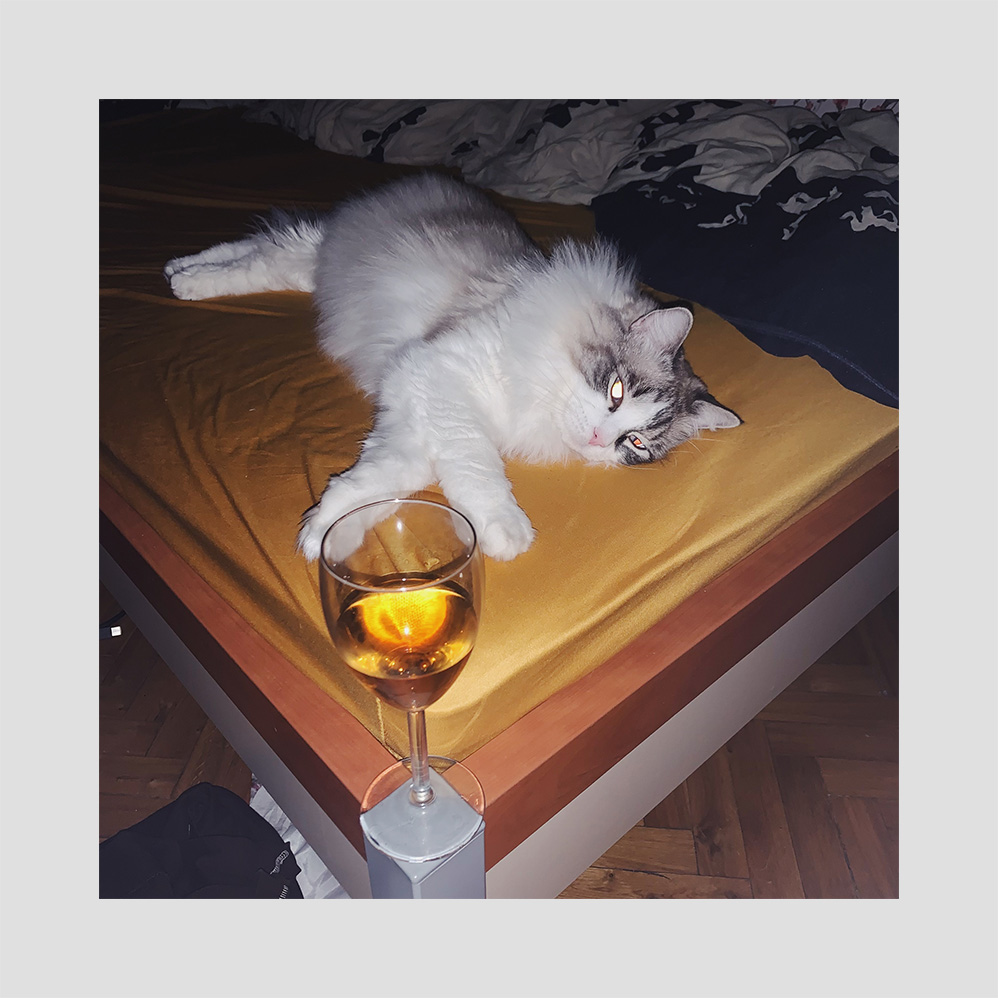
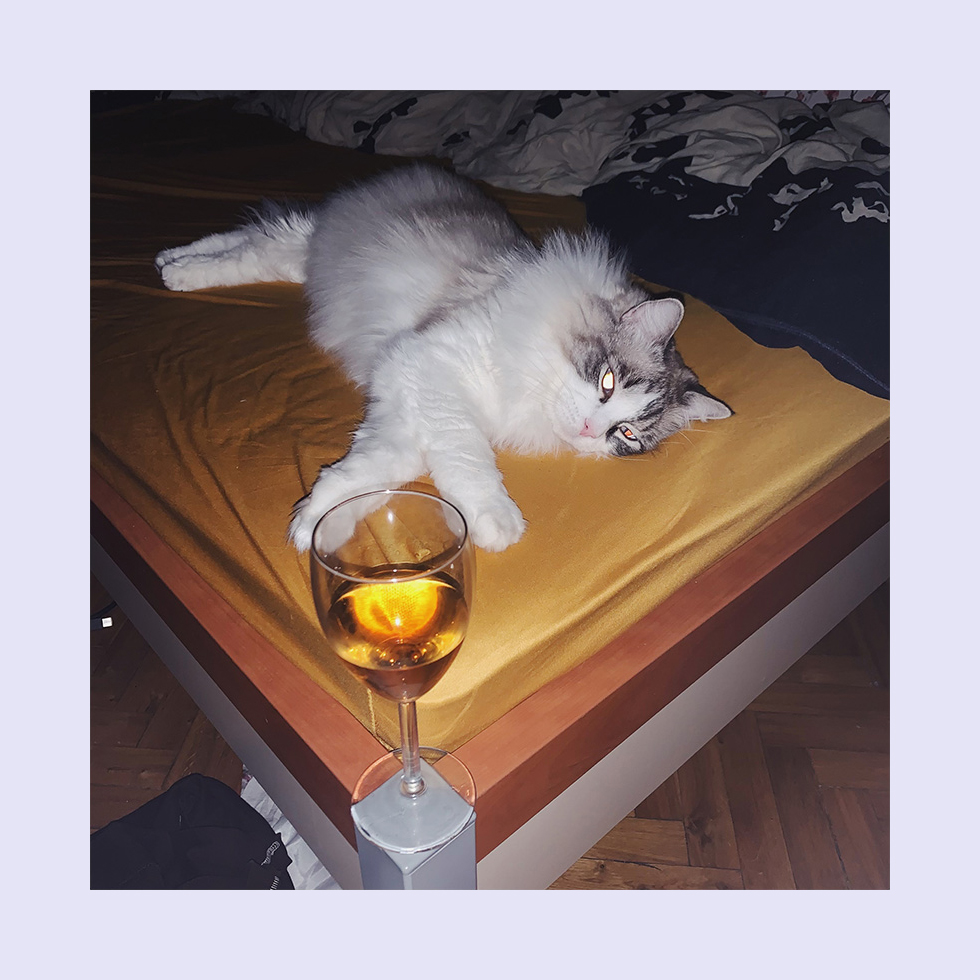
silverr overhaul and news entry about it

diff --git a/css/timeline.css b/css/timeline.css
@@ -2,117 +2,105 @@ body {
     background-color: black;
 }
 
-#main-wrapper {
+#container {
+    max-width: 100%;
+}
+
+#wrap {
     width: 100%;
     height: 100%;
-    
     display: flex;
-    flex-direction: column;
-    justify-content: center;
-    align-items: center;
-    align-content: center;
-    gap: 60px;
-}
-
-#bounding-box {
-    display: flex;
-    flex-direction: row;
     justify-content: center;
     align-items: flex-start;
-    align-content: center;
+    align-content: flex-start;
 }
 
-#bottom-binding {
-    display: flex;
-    flex-direction: row;
-    flex-wrap: wrap;
-    justify-content: center;
-    align-items: flex-start;
-    align-content: center;
-    max-width: 470px;
-    border: 1px solid white;
-    gap: 10px;
-    padding: 10px;
-    
-    position: relative;
+#grid {
+    max-width: 100%;
+    width: 600px;
+    display: grid;
+    grid-template-columns: repeat(5, 1fr);
 }
 
-.title {
-    color: white;
-    position: absolute;
-    top: -25px;
-    white-space: nowrap;
-}
-
-.vertical-wrapper {
-    display: flex;
-    flex-direction: column;
-    justify-content: center;
-    align-items: center;
-    align-content: center;
-}
-
-.connector {
-    width: 120px;
-    min-height: 120px;
-
-    display: flex;
-    flex-direction: column;
-    justify-content: center;
-    align-items: center;
-    align-content: center;
-}
-
-.line {
-    background-color: white;
-    height: 1px;
-    width: 120px;
-}
-
-.connector.vertical {
-    transform: rotate(90deg);
-}
-
-.divider {
-    height: 120px;
-    width: 120px;
-}
-
-.top-1 {
-    margin-top: 110px;
-}
-
-.top-2 {
-    margin-top: 220px;
+#sample-node {
+    grid-column-start: 1;
+    grid-column-end: 1;
+    grid-row-start: 1;
+    grid-row-end: 1;
 }
 
 .node {
-    width: 120px;
-    min-height: 120px;
     border: 1px solid white;
-
-    position: relative;
-
+    padding: 10px;
     display: flex;
-    flex-direction: column;
+    gap: 20px;
+}
+
+.node>img {
+    max-width: 100%;
+}
+
+.line {
+    display: flex;
     justify-content: center;
     align-items: center;
     align-content: center;
 }
 
-.node>img:last-child {
-    margin-bottom: 10px;
+.vertical {
+    transform: rotate(90deg);
 }
 
-.node>img {
-    width: 100px;
-    height: 100px;
-    margin-top: 10px;
-    filter: grayscale(1);
-    transition: 0.3s;
+.stroke {
+    background-color: white;
+    height: 1px;
+    width: 100%;
 }
 
-.node>img:hover {
-    filter: grayscale(0);
-    transition: 0.3s;
+.node-1 {
+    grid-column-start: 3;
+    grid-column-end: 4;
+    grid-row-start: 1;
+    grid-row-end: 4;
+
+    flex-direction: column;
+}
+
+.node-2 {
+    grid-column-start: 1;
+    grid-column-end: 2;
+    grid-row-start: 2;
+    grid-row-end: 3;
+}
+
+.line-1 {
+    grid-column-start: 2;
+    grid-column-end: 3;
+    grid-row-start: 2;
+    grid-row-end: 3;
+}
+
+.line-2 {
+    grid-column-start: 4;
+    grid-column-end: 5;
+    grid-row-start: 3;
+    grid-row-end: 4;
+}
+
+.node-3 {
+    grid-column-start: 5;
+    grid-column-end: 6;
+    grid-row-start: 3;
+    grid-row-end: 5;
+
+    flex-direction: column;
+}
+
+.node-4 {
+    grid-column-start: 2;
+    grid-column-end: 5;
+    grid-row-start: 6;
+    grid-row-end: 7;
+    
+    flex-direction: row;
 }

diff --git a/timeline.html b/timeline.html
@@ -21,46 +21,31 @@
 </head>
 
 <body>
-        <div id="main-wrapper">
-            <div id="wrap">
-            <div id="outer">
-            <div id="bounding-box">
-
-                <div class="vertical-wrapper">
-                    <div class="node top-1">
-                        <div class="title">stonewall incident</div>
-                        <img src="res/timeline/endless.jpg">
-                    </div>
-                </div>
-
-                <div class="connector top-1"><div class="line"></div></div>
-
-                <div class="vertical-wrapper">
-                    <div class="node">
-                        <div class="title">the last summer</div>
-                        <img src="res/timeline/missing.jpg"><img src="res/timeline/fangs.jpg"><img src="res/timeline/missing.jpg">
-                    </div>
-                </div>
-
-                <div class="connector top-2"><div class="line"></div></div>
-
-                <div class="vertical-wrapper">
-                    <div class="node top-2">
-                        <div class="title">meadow</div>
-                        <img src="res/timeline/missing.jpg"><img src="res/timeline/meadow+.jpg">
-                    </div>
-                </div>
-
+    <div id="wrap">
+        <div id="grid">
+            <div id="sample-node"></div>
+            <div class="node node-1">
+                <img src="res/timeline/missing.jpg">
+                <img src="res/timeline/missing.jpg">
+                <img src="res/timeline/missing.jpg">
             </div>
-
-            <div id="bottom-binding">
-                <div class="title">projects not applicable / outisde of the timeline</div>
-                <img src="res/timeline/missing.jpg"><img src="res/timeline/missing.jpg"><img src="res/timeline/missing.jpg"><img src="res/timeline/missing.jpg">
+            <div class="line line-1 horizontal"><div class="stroke"></div></div>
+            <div class="node node-2">
+                <img src="res/timeline/missing.jpg">
+            </div>
+            <div class="line line-2 horizontal"><div class="stroke"></div></div>
+            <div class="node node-3">
+                <img src="res/timeline/missing.jpg">
+                <img src="res/timeline/missing.jpg">
+            </div>
+            <div class="node node-4">
+                <img src="res/timeline/missing.jpg">
+                <img src="res/timeline/missing.jpg">
+                <img src="res/timeline/missing.jpg">
             </div>
         </div>
-            </div>
+    </div>
 
-        </div>
     <script src="js/index.js"></script>
     <script src="js/timeline.js"></script>
 </body>

diff --git a/silverr.html b/silverr.html
@@ -24,9 +24,9 @@
         <h1>silverr</h1>
         <span>TERRA</span>
         <span>578 days / 13 872 hours / 832 320 minutes</span>
-        <iframe src="https://www.youtube.com/embed/l_5du1P4g9Q?color=white" width="560" height="315" title="Guy holds cat up to camera then the cat says something" frameborder="0" allowfullscreen class="video"></iframe>
-        <span>playlist "from the grround up" (updated 19.06.2023) - <a href="https://open.spotify.com/playlist/5KFHqxVAKCXmcylaWNyS5Q?si=f9409a4299a544a6">link</a></span>
-        <iframe src="https://open.spotify.com/embed/playlist/5KFHqxVAKCXmcylaWNyS5Q?utm_source=generator" width="560" height="500" frameBorder="0" allowfullscreen="" allow="autoplay; clipboard-write; encrypted-media; fullscreen; picture-in-picture" loading="lazy" class="spotify"></iframe>
+        <iframe src="https://www.youtube.com/embed/7-CK0Xvv4ug?color=white" width="560" height="315" title="silverr" frameborder="0" allowfullscreen></iframe>
+        <!-- <span>playlist "from the grround up" - <a href="https://open.spotify.com/playlist/5KFHqxVAKCXmcylaWNyS5Q?si=f9409a4299a544a6">link</a></span> -->
+        <!-- <iframe src="https://open.spotify.com/embed/playlist/5KFHqxVAKCXmcylaWNyS5Q?utm_source=generator" width="560" height="500" frameBorder="0" allowfullscreen="" allow="autoplay; clipboard-write; encrypted-media; fullscreen; picture-in-picture" loading="lazy" class="spotify"></iframe> -->
         <span class="left">
             And we'll keep in touch if we're able<br/>
             And i'll be gone by tomorrow<br/>

diff --git a/js/timeline.js b/js/timeline.js
@@ -1,16 +1,13 @@
-let outer = document.getElementById('outer'),
-        wrapper = document.getElementById('wrap'),
-        maxWidth  = outer.clientWidth,
-        maxHeight = outer.clientHeight;
-window.addEventListener("resize", resize);
-resize();
-function resize(){let scale,
-    width = window.innerWidth,
-  height = window.innerHeight,
-  isMax = width >= maxWidth && height >= maxHeight;
-
-    scale = Math.min(width/maxWidth, height/maxHeight);
-    outer.style.transform = isMax?'':'scale(' + scale + ')';
-    wrapper.style.width = isMax?'':maxWidth * scale;
-    wrapper.style.height = isMax?'':maxHeight * scale;
+function adjustGrid() {
+    let width = document.getElementById('sample-node').offsetWidth
+    console.log(width)
+    document.getElementById('grid').style.setProperty('grid-auto-rows', `${width}px`)
 }
+
+window.addEventListener('load', () => {
+    adjustGrid()
+})
+
+window.addEventListener('resize', () => {
+    adjustGrid()
+})

diff --git a/index.html b/index.html
@@ -41,6 +41,10 @@
                 <div class="top"><img src="res/index/logo.png" /></div>
                 <div class="middle">
                     <div class="news-entry">
+                        <div class="date">15.08.2023</div>
+                        <p>Project <a href="https://terra.gayest.cloud/silverr.html">silverr</a> was overhauled.</p>
+                    </div>
+                    <div class="news-entry">
                         <div class="date">19.06.2023</div>
                         <p>New project <a href="https://terra.gayest.cloud/silverr.html">silverr</a> has been uploaded.</p>
                     </div>

diff --git a/css/silverr.css b/css/silverr.css
@@ -10,7 +10,7 @@ body {
     font-family: 'Noto Sans Mono', monospace;
     font-size: 14px;
     background-color: white;
-    color: #333333;
+    color: #3F4679;
     text-align: center;
     padding: 25px;
     
@@ -36,7 +36,7 @@ h1 {
     --fs: clamp(50px, 20vw, 100px);
     font-size: var(--fs);
     /* 100px; */
-    color: #e0e0e0;
+    color: #E5E4F6;
     font-weight: 700;
     margin: 0;
     line-height: 0.87;
@@ -60,5 +60,5 @@ img {
 .spotify {
     aspect-ratio: unset;
     height: revert-layer;
-    background-color: #7f7f7f;
+    background-color: #535353;
 }
